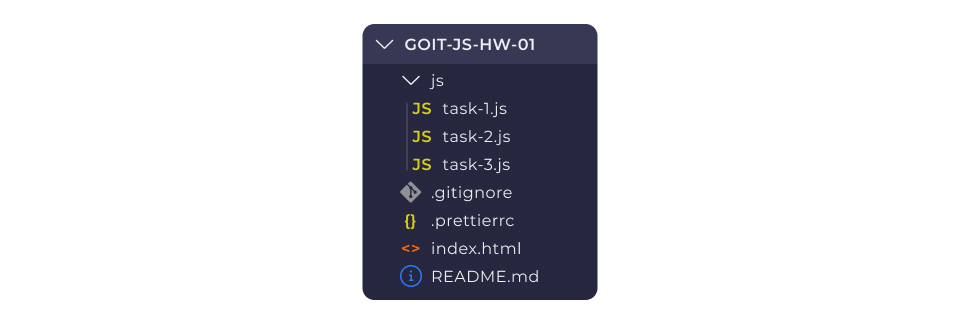
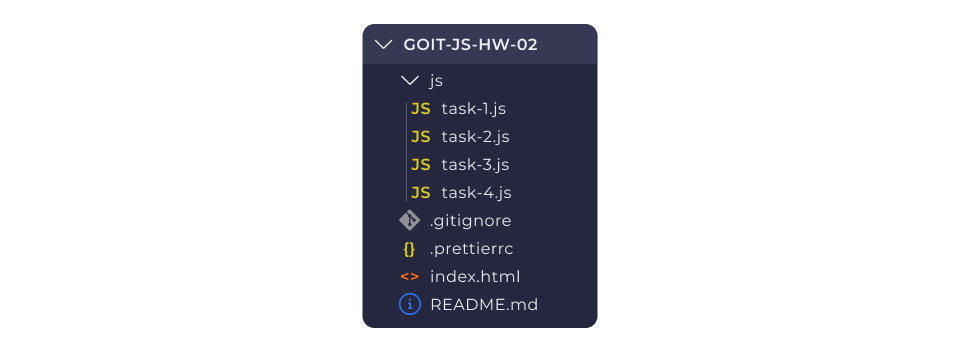
readme update

Changed region(s): [[0.4062, 0.216, 0.5625, 0.8951], [0.375, 0.0617, 0.625, 0.1543], [0.375, 0.9259, 0.625, 0.9568]]

diff --git a/README.md b/README.md
@@ -1,114 +1,173 @@
-
 ## Задача 1 - Замовлення дроїдів
 
 > Виконуй це завдання у файлі task-1.js
 
 Станція з продажу ремонтних дроїдів готова до запуску, залишилося написати програмне забезпечення для відділу продажів.
 
-Оголоси функцію makeTransaction, яка очікує два параметри, значення яких будуть задаватися під час її виклику:
-- quantity — перший параметр, число, що містить кількість замовлених дроїдів 
-- pricePerDroid — другий параметр, число, що містить вартість одного дроїда
+Оголоси функцію makeTransaction(quantity, pricePerDroid, customerCredits), яка складає та повертає повідомлення про купівлю ремонтних дроїдів.
 
-Доповни код функції так, щоб вона повертала рядок з повідомленням про покупку ремонтних дроїдів: 
-```
-"You ordered <quantity> droids worth <totalPrice> credits!"
-```
-де: 
-- quantity — це кількість замовлених дроїдів 
-- totalPrice — це загальна вартість замовлення, тобто вартість усіх замовлених дроїдів
+Вона оголошує три параметри, значення яких будуть задаватися під час її виклику:
+
+- quantity — кількість замовлених дроїдів
+- pricePerDroid — ціна одного дроїда
+- customerCredits — сума коштів на рахунку клієнта
+
+### Доповни функцію таким чином:
+
+- Оголоси змінну для зберігання загальної суми замовлення (загальна вартість усіх замовлених дроїдів) і задай їй вираз розрахунку цієї суми.
+- Додай перевірку, чи зможе клієнт оплатити замовлення:
+  якщо сума до сплати перевищує кількість кредитів на рахунку клієнта, функція має повертати рядок "Insufficient funds!"
+  в іншому випадку функція має повертати рядок "You ordered quantity droids worth totalPrice>credits!", де quantity це кількість замовлених дроїдів, а totalPrice це їх загальна вартість.
 
 Візьми код нижче і встав після оголошення своєї функції для перевірки коректності її роботи. У консоль будуть виведені результати її роботи.
 
 ```js
-console.log(makeTransaction(5, 3000)); // "You ordered 5 droids worth 15000 credits!"
-console.log(makeTransaction(3, 1000)); // "You ordered 3 droids worth 3000 credits!"
-console.log(makeTransaction(10, 500)); // "You ordered 10 droids worth 5000 credits!"
+console.log(makeTransaction(5, 3000, 23000)); // "You ordered 5 droids worth 15000 credits!"
+console.log(makeTransaction(3, 1000, 15000)); // "You ordered 3 droids worth 3000 credits!"
+console.log(makeTransaction(10, 5000, 8000)); // "Insufficient funds!"
+console.log(makeTransaction(8, 2000, 10000)); // "Insufficient funds!"
+console.log(makeTransaction(10, 500, 5000)); // "You ordered 10 droids worth 5000 credits!"
 ```
 
 Залиш цей код для перевірки ментором.
 
 ### На що буде звертати увагу ментор при перевірці:
-- Оголошена функція makeTransaction(quantity, pricePerDroid)
-- Виклик makeTransaction(5, 3000) повертає "You ordered 5 droids worth 15000 credits!"
-- Виклик makeTransaction(3, 1000) повертає "You ordered 3 droids worth 3000 credits!"
-- Виклик makeTransaction(10, 500) повертає "You ordered 10 droids worth 5000 credits!"
-- В консоль виведині всі результаті викликів
-- Виклик makeTransaction з будь якими-валідними аргументами повертає правильне значення
 
-## Задача 2 - Доставка товару
+- Оголошена функція makeTransaction(quantity, pricePerDroid, customerCredits)
+- Виклик makeTransaction(5, 3000, 23000) повертає "You ordered 5 droids worth 15000 credits!"
+- Виклик makeTransaction(3, 1000, 15000) повертає "You ordered 3 droids worth 3000 credits!"
+- Виклик makeTransaction(10, 5000, 8000) повертає "Insufficient funds!"
+- Виклик makeTransaction(8, 2000, 10000) повертає "Insufficient funds!"
+- Виклик makeTransaction(10, 500, 5000) повертає "You ordered 10 droids worth 5000 credits!"
+
+## Задача 2 - Форматування повідомлення
 
 > Виконуй це завдання у файлі task-2.js
 
-Оголоси функцію getShippingMessage, яка очікує три параметри, значення яких будуть задаватися під час її виклику: 
-- country — перший параметр, рядок, що містить країну доставки 
-- price — другий параметр, число, що містить загальну вартість товару 
-- deliveryFee — третій параметр, число, що містить вартість доставки товару
+Оголоси функцію formatMessage(message, maxLength), яка приймає рядок (параметр message) та перевіряє його довжину відповідно до заданої максимальної довжини (параметр maxLength).
 
-Доповни код функції так, щоб вона повертала рядок з повідомленням про доставку товару в країну користувача: 
-```js
-"Shipping to <country> will cost <totalPrice> credits"
-```
-де: 
-- country — це країни доставки 
-- totalPrice — це загальна вартість замовлення, що включає вартість товару і його доставки
+### Доповни код функції таким чином, що:
+
+- Якщо довжина рядка дорівнює або менша за maxLength, то функція повертає початковий рядок без змін.
+- Якщо довжина перевищує maxLength, то функція обрізає рядок до maxLength символів, додає трикрапку "..." в кінці та повертає обрізану версію.
 
 Візьми код нижче і встав після оголошення своєї функції для перевірки коректності її роботи. У консоль будуть виведені результати її роботи.
 
 ```js
-console.log(getShippingMessage("Australia", 120, 50)); // "Shipping to Australia will cost 170 credits"
-console.log(getShippingMessage("Germany", 80, 20)); // "Shipping to Germany will cost 100 credits"
-console.log(getShippingMessage("Sweden", 100, 20)); // "Shipping to Sweden will cost 120 credits"
+console.log(formatMessage("Curabitur ligula sapien", 16)); // "Curabitur ligula..."
+console.log(formatMessage("Curabitur ligula sapien", 23)); // "Curabitur ligula sapien"
+console.log(formatMessage("Vestibulum facilisis purus nec", 20)); // "Vestibulum facilisis..."
+console.log(formatMessage("Vestibulum facilisis purus nec", 30)); // "Vestibulum facilisis purus nec"
+console.log(formatMessage("Nunc sed turpis a felis in nunc fringilla", 15)); // "Nunc sed turpis..."
+console.log(formatMessage("Nunc sed turpis a felis in nunc fringilla", 41)); // "Nunc sed turpis a felis in nunc fringilla"
 ```
 
 Залиш цей код для перевірки ментором.
 
 ### На що буде звертати увагу ментор при перевірці:
-- Оголошена функція getShippingMessage(country, price, deliveryFee)
-- Виклик getShippingMessage("Australia", 120, 50) повертає "Shipping to Australia will cost 170 credits"
-- Виклик getShippingMessage("Germany", 80, 20) повертає "Shipping to Germany will cost 100 credits"
-- Виклик getShippingMessage("Sweden", 100, 20) повертає "Shipping to Sweden will cost 120 credits"
-- Виклик getShippingMessage з будь якими-валідними аргументами повертає правильне значення
 
-## Задача 3 - Ширина елемента
+- Оголошена функція formatMessage(message, maxLength)
+- Виклик функції formatMessage("Curabitur ligula sapien", 16) повертає "Curabitur ligula..."
+- Виклик функції formatMessage("Curabitur ligula sapien", 23) повертає "Curabitur ligula sapien"
+- Виклик функції formatMessage("Vestibulum facilisis purus nec", 20) повертає "Vestibulum facilisis..."
+- Виклик функції formatMessage("Vestibulum facilisis purus nec", 30) повертає "Vestibulum facilisis purus nec"
+- Виклик функції formatMessage("Nunc sed turpis a felis in nunc fringilla", 15) повертає "Nunc sed turpis..."
+- Виклик функції formatMessage("Nunc sed turpis a felis in nunc fringilla", 41) повертає "Nunc sed turpis a felis in nunc fringilla"
+
+### Задача 3 - Перевірка спаму
 
 > Виконуй це завдання у файлі task-3.js
 
-Оголоси функцію getElementWidth, яка очікує три параметри, значення яких будуть задаватися під час її виклику:
-- content— перший параметр, ширина контенту 
-- padding — другий параметр, значення горизонтального падінгу для кожної зі сторін 
-- border — третій параметр, значення товщини бордера для кожної зі сторін Значення всіх параметрів будуть рядками формату Npx де N — це довільне число, ціле або дробове.
+Функція checkForSpam(message) приймає рядок (параметр message), перевіряє його на вміст заборонених слів spam і sale, і повертає результат перевірки.
 
-Доповни код функції так, щоб вона повертала число —загальну ширину елемента. При розрахунку загальної ширини орієнтуйся на те, що значення box-sizing дорівнює border-box.
+Слова в рядку параметра message можуть бути в довільному регістрі, наприклад SPAM або sAlE.
+
+### Доповни код функції таким чином, що:
+
+- Якщо знайдено заборонене слово (spam або sale), то функція повертає буль true
+- Якщо в рядку відсутні заборонені слова, функція повертає буль false
 
 Візьми код нижче і встав після оголошення своєї функції для перевірки коректності її роботи. У консоль будуть виведені результати її роботи.
 
 ```js
-console.log(getElementWidth("50px", "8px", "4px")); // 74
-console.log(getElementWidth("60px", "12px", "8.5px")); // 101
-console.log(getElementWidth("200px", "0px", "0px")); // 200
+console.log(checkForSpam("Latest technology news")); // false
+console.log(checkForSpam("JavaScript weekly newsletter")); // false
+console.log(checkForSpam("Get best sale offers now!")); // true
+console.log(checkForSpam("Amazing SalE, only tonight!")); // true
+console.log(checkForSpam("Trust me, this is not a spam message")); // true
+console.log(checkForSpam("Get rid of sPaM emails. Our book in on sale!")); // true
+console.log(checkForSpam("[SPAM] How to earn fast money?")); // true
+```
+
+Залиш цей код для перевірки ментором.
+
+### На що буде звертати увагу ментор при перевірці:
+
+- Оголошена функція checkForSpam(message).
+- Виклик функції checkForSpam("Latest technology news") повертає false
+- Виклик функції checkForSpam("JavaScript weekly newsletter")повертає false
+- Виклик функції checkForSpam("Get best sale offers now!") повертає true
+- Виклик функції checkForSpam("Amazing SalE, only tonight!") повертає true
+- Виклик функції checkForSpam("Trust me, this is not a spam message") повертає true
+- Виклик функції checkForSpam("Get rid of sPaM emails. Our book in on sale!") повертає true
+- Виклик функції checkForSpam("[SPAM] How to earn fast money?") повертає true
+
+## Задача 4 - Доставка товару
+
+> Виконуй це завдання у файлі task-4.js
+
+Оголоси функцію getShippingCost(country), яка повинна перевіряти можливість доставки товару в країну користувача (параметр country) і повертати повідомлення про результат.
+
+_Обов'язково використовуй інструкцію switch._
+
+Формат рядка, що повертається "Shipping to country will cost price credits", де замість country і price необхідно підставити відповідні значення.
+
+Список країн і вартість доставки:
+
+- China — 100 кредитів
+- Chile — 250 кредитів
+- Australia — 170 кредитів
+- Jamaica — 120 кредитів
+
+Зі списку видно, що доставка можлива не скрізь. Якщо зазначена країна відсутня у списку, то функція повинна повернути рядок "Sorry, there is no delivery to your country".
+
+Візьми код нижче і встав після оголошення своєї функції для перевірки коректності її роботи. У консоль будуть виведені результати її роботи.
+
+```js
+console.log(getShippingCost("Australia")); // "Shipping to Australia will cost 170 credits"
+console.log(getShippingCost("Germany")); // "Sorry, there is no delivery to your country"
+console.log(getShippingCost("China")); // "Shipping to China will cost 100 credits"
+console.log(getShippingCost("Chile")); // "Shipping to Chile will cost 250 credits"
+console.log(getShippingCost("Jamaica")); // "Shipping to Jamaica will cost 120 credits"
+console.log(getShippingCost("Sweden")); // "Sorry, there is no delivery to your country"
 ```
 
 Залиш цей код для перевірки ментором.
 
 ## На що буде звертати увагу ментор при перевірці:
 
-Оголошена функція getElementWidth(content, padding, border)
-- Виклик getElementWidth("50px", "8px", "4px") повертає число 74
-- Виклик getElementWidth("60px", "12px", "8.5px") повертає число 101
-- Виклик getElementWidth("200px", "0px", "0px") повертає число 200
-- Виклик getElementWidth з будь якими-валідними аргументами повертає правильне значення
+- Оголошена функція getShippingCost(country)
+- У тілі функції використана інструкція switch
+- Виклик getShippingCost("Australia") повертає "Shipping to Australia will cost 170 credits"
+- Виклик getShippingCost("Germany") повертає "Sorry, there is no delivery to your country"
+- Виклик getShippingCost("China") повертає "Shipping to China will cost 100 credits"
+- Виклик getShippingCost("Chile") повертає "Shipping to Chile will cost 250 credits"
+- Виклик getShippingCost("Jamaica") повертає "Shipping to Jamaica will cost 120 credits"
+- Виклик getShippingCost("Sweden") повертає "Sorry, there is no delivery to your country"
 
 ## Домашнє завдання
-- Створи репозиторій goit-js-hw-01 та склонюй його собі на комп’ютер.
-- У папці goit-js-hw-01 створи структуру проєкта, як показано на схемі нижче.
+
+- Створи репозиторій goit-js-hw-02 та склонюй його собі на комп’ютер.
+- У папці goit-js-hw-02 створи структуру проєкта, як показано на схемі нижче.
 
 > Зверни увагу! Імена файлів та папок, а також їх структура вкладеності, мають відповідати вказаній схемі. В іншому разі робота не буде прийнята.
 
-![alt text](./public/image.png)
+![alt text](/public/image.png)
 
 - Прочитай кожне завдання і виконай його у відповідному файлі.
 - Переконайся, що код відформатований за допомогою Prettier, а в консолі відсутні помилки і попередження під час відкриття живої сторінки завдання.
-- Здай домашнє завдання на ментору на платформі LMS.
+- Здай домашнє завдання на перевірку.
 
-### Формат здачі: 
-Домашня робота містить два посилання: на вихідні файли (посилання на репозиторій з кодом) і живу сторінку на GitHub Pages.
+### Формат здачі:
+
+Домашня робота містить два посилання: на вихідні файли і робочу сторінку на GitHub Pages.
